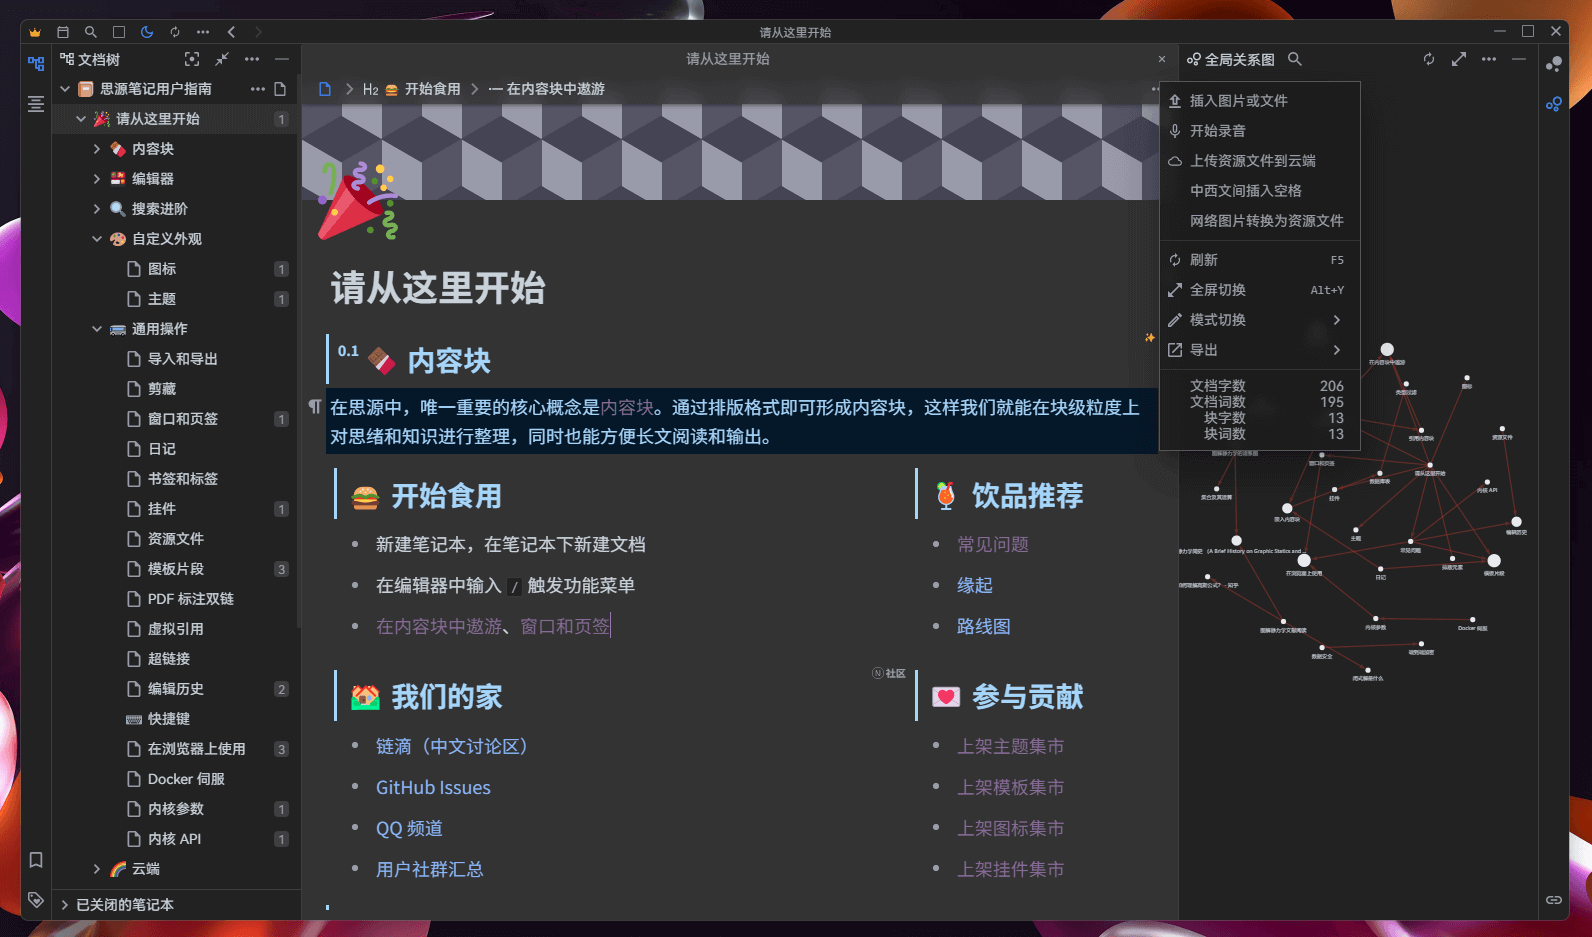
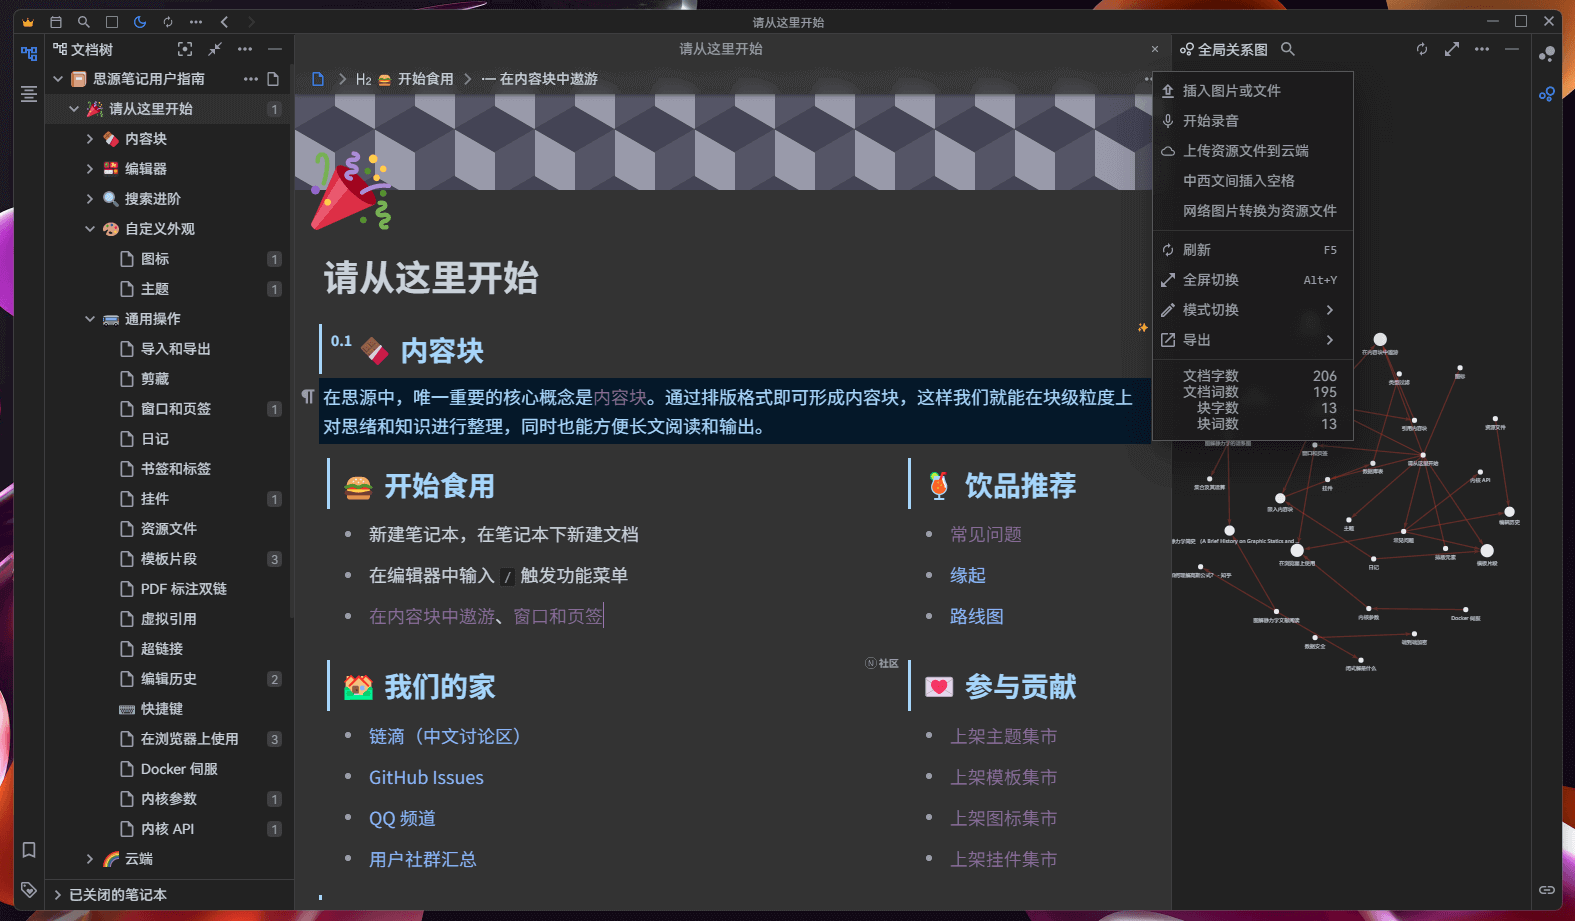
Add files via upload

diff --git a/theme.css b/theme.css
@@ -259,11 +259,17 @@
     border-radius: 0 0 0 0;
 }
 
+#layouts>.fn__flex:nth-child(3){
+    overflow:hidden;
+}
+
 #layouts>.fn__flex:nth-child(3)>.fn__flex-column:first-child>.fn__flex:not(.fn__none){
     border-right: 1px solid #ffffff20;
+    box-sizing: border-box;
 }
 #layouts>.fn__flex:nth-child(3)>.fn__flex-column:last-child>.fn__flex:not(.fn__none){
     border-left: 1px solid #ffffff20;
+    box-sizing: border-box;
 }
 .layout-tab-bar {
     box-shadow: 0 0 0 0;
@@ -420,7 +426,7 @@
 }
 
 
-.protyle-wysiwyg [data-node-id].sb[data-sb-layout="col"] {
+/* .protyle-wysiwyg [data-node-id].sb[data-sb-layout="col"] {
     padding: 2px;
     margin: 2px;
     transition: box-shadow 0.2s;
@@ -452,7 +458,7 @@
 
 .protyle-wysiwyg [data-node-id].list:hover {
     box-shadow:  0px 0px 3px #ffffff50;
-}
+} */
 
 .layout-tab-bar .item--focus{
     font-style: normal;
@@ -756,4 +762,15 @@ mark {
 
 .protyle-wysiwyg [data-node-id].li>[data-node-id]:before {
     border-left: 1px solid #ffffff30;
+}
+
+.b3-text-filed{
+    border-radius: 0 0 0 0;
+}
+.b3-button{
+    border-radius: 0 0 0 0;
+}
+
+.layout__center .layout__resize--lr {
+    border-left: 1px solid #ffffff25;
 }

diff --git a/README.md b/README.md
@@ -1,4 +1,4 @@
-# Roundark
+# Puredark
 ![GitHub release (latest by date including pre-releases)](https://img.shields.io/github/release/lisontowind/puredark?include_prereleases)
 ![GitHub](https://img.shields.io/github/license/lisontowind/puredark)
 ![GitHub last commit](https://img.shields.io/github/last-commit/lisontowind/puredark)
@@ -8,5 +8,5 @@
 自用思源主题
 1. 简洁线条界面
 2. 标题部分搬运了Dark+
-3. 透明工具栏
+3. 透明元素
 ![](preview.png)
